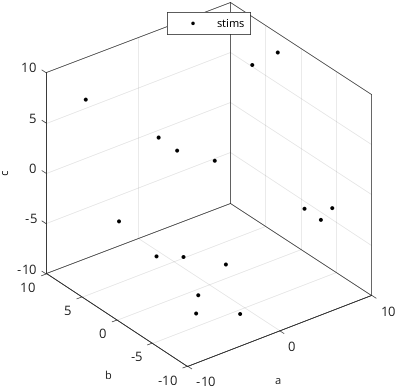
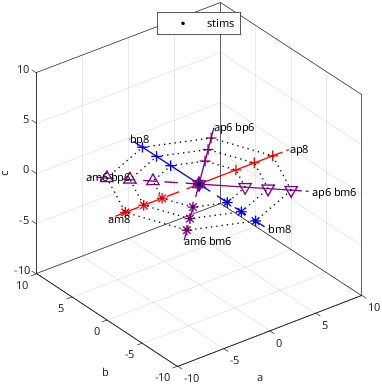
refresh the rs_toygeom_sim capture

diff --git a/docs/mfiles/demos/rs_toygeom_sim.md b/docs/mfiles/demos/rs_toygeom_sim.md
@@ -2,14 +2,12 @@
 Geometric modeling with toy simulated datasets; used by rs_toygeom_scenario*
 
 This illustrates fitting of geometric models via creation of simulated coordinate set structures.
-The defaults below are deliberately small, so that this script runs standalone in a
-reasonable time: two transforms, two paradigms, and model fitting without statistics.
-Any of the parameters may be set in the workspace before running, in which case the
-default is not applied; rs_toygeom_scenario*.m does exactly that, supplying richer
-parameter sets, and then calls this script.
+It is intended that several of the parameters, especially paradigm_names, transform_names, are edited,
+or that rs_toygeom_scenario*.m is run first; running as is will be very time-consuming.
 
-Because parameters are taken from the workspace when they are already defined, run this
-from a clear workspace unless you intend to supply parameters yourself.
+Any of the parameters may be set in the workspace before running, in which case the default
+is not applied; that is what rs_toygeom_scenario*.m does. So run this from a clear workspace
+unless you intend to supply parameters yourself.
 
 Constructs several transformations, designated by the strings in transform_names:
     null: the identity
@@ -46,14 +44,14 @@ See also:  [rs_import_coordsets](rs_import_coordsets.md), [rs_disp_coordsets](rs
 these are the main simulation parameters that may be edited, or have values set before running
 
 ```matlab
-if ~exist('transform_names') transform_names={'procrustes','affine'}; end %a small default set; available names are in transform_names_avail below
+if ~exist('transform_names') transform_names={'null','procrustes','affine','projective','pwaffine'}; end %some may be deleted
 if ~exist('affine_mag') affine_mag=0.5; end %magnitude of distortion in affine transforms
 if ~exist('projective_mag') projective_mag=0.1; end %controls amount of distortion in projective transform
 if ~exist('pwaffine_mag') pwaffine_mag=0.25; end %controls difference in linear transforms of piecewise affine
 ```
 
 ```matlab
-if ~exist('paradigm_names') paradigm_names={'Axes','Random'}; end %a small default set; others are Rings_C12, Rings_C13, Rings_C23, RandomAndAxisEnds
+if ~exist('paradigm_names') paradigm_names={'Axes','Rings_C12','Rings_C13','Rings_C23','Random','RandomAndAxisEnds'}; end %some may be deleted
 if ~exist('axis_samples') axis_samples=[2 4 6 8]; end %sample points in each direction along each axis
 if ~exist('ring_radii') ring_radii=[4 6 8]; end %radii for the rings
 if ~exist('ring_angles') ring_angles=8; end %number of sample points in a ring
@@ -206,7 +204,7 @@ disp(sprintf(' %2.0f transforms set up, on %3.0f coordinates.',ntransforms,ncoor
 Output:
 
 ```text
-  2 transforms set up, on   3 coordinates.
+  5 transforms set up, on   3 coordinates.
 ```
 
 define the number of subjects and levels of noise for each
@@ -357,7 +355,11 @@ Output:
 
 ```text
 coordinate sets created for paradigm Axes
+coordinate sets created for paradigm Rings_C12
+coordinate sets created for paradigm Rings_C13
+coordinate sets created for paradigm Rings_C23
 coordinate sets created for paradigm Random
+coordinate sets created for paradigm RandomAndAxisEnds
 ```
 
 create the type names, e.g., conceptual coordinate [-3 0 4] -> 'am3 cp4'
@@ -420,7 +422,11 @@ Output:
 
 ```text
 ray structure created for paradigm Axes
+ray structure created for paradigm Rings_C12
+ray structure created for paradigm Rings_C13
+ray structure created for paradigm Rings_C23
 ray structure skipped for paradigm Random
+ray structure skipped for paradigm RandomAndAxisEnds
 ```
 
 set up a page for each paradigm, with space for multiple subplots,
@@ -476,6 +482,14 @@ end
 ![rs_toygeom_sim_chunk35_fig1](../../images/demos/rs_toygeom_sim_chunk35_fig1.png)
 
 ![rs_toygeom_sim_chunk35_fig2](../../images/demos/rs_toygeom_sim_chunk35_fig2.png)
+
+![rs_toygeom_sim_chunk35_fig3](../../images/demos/rs_toygeom_sim_chunk35_fig3.png)
+
+![rs_toygeom_sim_chunk35_fig4](../../images/demos/rs_toygeom_sim_chunk35_fig4.png)
+
+![rs_toygeom_sim_chunk35_fig5](../../images/demos/rs_toygeom_sim_chunk35_fig5.png)
+
+![rs_toygeom_sim_chunk35_fig6](../../images/demos/rs_toygeom_sim_chunk35_fig6.png)
 
 apply each subject's transform to the stimuli in each stimulus set, and display
 
@@ -572,10 +586,36 @@ end
 Output:
 
 ```text
+dataspace created for paradigm                 Axes and transform null
 dataspace created for paradigm                 Axes and transform procrustes
 dataspace created for paradigm                 Axes and transform affine
+dataspace created for paradigm                 Axes and transform projective
+dataspace created for paradigm                 Axes and transform pwaffine
+dataspace created for paradigm            Rings_C12 and transform null
+dataspace created for paradigm            Rings_C12 and transform procrustes
+dataspace created for paradigm            Rings_C12 and transform affine
+dataspace created for paradigm            Rings_C12 and transform projective
+dataspace created for paradigm            Rings_C12 and transform pwaffine
+dataspace created for paradigm            Rings_C13 and transform null
+dataspace created for paradigm            Rings_C13 and transform procrustes
+dataspace created for paradigm            Rings_C13 and transform affine
+dataspace created for paradigm            Rings_C13 and transform projective
+dataspace created for paradigm            Rings_C13 and transform pwaffine
+dataspace created for paradigm            Rings_C23 and transform null
+dataspace created for paradigm            Rings_C23 and transform procrustes
+dataspace created for paradigm            Rings_C23 and transform affine
+dataspace created for paradigm            Rings_C23 and transform projective
+dataspace created for paradigm            Rings_C23 and transform pwaffine
+dataspace created for paradigm               Random and transform null
 dataspace created for paradigm               Random and transform procrustes
 dataspace created for paradigm               Random and transform affine
+dataspace created for paradigm               Random and transform projective
+dataspace created for paradigm               Random and transform pwaffine
+dataspace created for paradigm    RandomAndAxisEnds and transform null
+dataspace created for paradigm    RandomAndAxisEnds and transform procrustes
+dataspace created for paradigm    RandomAndAxisEnds and transform affine
+dataspace created for paradigm    RandomAndAxisEnds and transform projective
+dataspace created for paradigm    RandomAndAxisEnds and transform pwaffine
 ```
 
 optinally align and knit the stimuli across paradigms
@@ -649,7 +689,7 @@ paradigms_all=fieldnames(sims); %includes original paradigms and knitted
 if ~exist('opts_geof') opts_geof=struct; end
 opts_geof=filldefault(opts_geof,'model_list',model_list);
 opts_geof=filldefault(opts_geof,'dimpairs_method','all');
-opts_geof=filldefault(opts_geof,'if_stats',0); %statistics are slow; the scenarios that need them set this to 1
+opts_geof=filldefault(opts_geof,'if_stats',1);
 opts_geof=filldefault(opts_geof,'nshuffs',20);
 opts_geof=filldefault(opts_geof,'if_nestbymodel',-1);
 opts_geof=filldefault(opts_geof,'if_nestbydim',-1);
@@ -687,11 +727,40 @@ Output:
 
 ```text
  
+modeling transform                 null from stimulus space to subject space with paradigm                 Axes
+modeling transform                 null from stimulus space to subject space with paradigm            Rings_C12
+modeling transform                 null from stimulus space to subject space with paradigm            Rings_C13
+modeling transform                 null from stimulus space to subject space with paradigm            Rings_C23
+modeling transform                 null from stimulus space to subject space with paradigm               Random
+modeling transform                 null from stimulus space to subject space with paradigm    RandomAndAxisEnds
+ 
 modeling transform           procrustes from stimulus space to subject space with paradigm                 Axes
+modeling transform           procrustes from stimulus space to subject space with paradigm            Rings_C12
+modeling transform           procrustes from stimulus space to subject space with paradigm            Rings_C13
+modeling transform           procrustes from stimulus space to subject space with paradigm            Rings_C23
 modeling transform           procrustes from stimulus space to subject space with paradigm               Random
+modeling transform           procrustes from stimulus space to subject space with paradigm    RandomAndAxisEnds
  
 modeling transform               affine from stimulus space to subject space with paradigm                 Axes
+modeling transform               affine from stimulus space to subject space with paradigm            Rings_C12
+modeling transform               affine from stimulus space to subject space with paradigm            Rings_C13
+modeling transform               affine from stimulus space to subject space with paradigm            Rings_C23
 modeling transform               affine from stimulus space to subject space with paradigm               Random
+modeling transform               affine from stimulus space to subject space with paradigm    RandomAndAxisEnds
+ 
+modeling transform           projective from stimulus space to subject space with paradigm                 Axes
+modeling transform           projective from stimulus space to subject space with paradigm            Rings_C12
+modeling transform           projective from stimulus space to subject space with paradigm            Rings_C13
+modeling transform           projective from stimulus space to subject space with paradigm            Rings_C23
+modeling transform           projective from stimulus space to subject space with paradigm               Random
+modeling transform           projective from stimulus space to subject space with paradigm    RandomAndAxisEnds
+ 
+modeling transform             pwaffine from stimulus space to subject space with paradigm                 Axes
+modeling transform             pwaffine from stimulus space to subject space with paradigm            Rings_C12
+modeling transform             pwaffine from stimulus space to subject space with paradigm            Rings_C13
+modeling transform             pwaffine from stimulus space to subject space with paradigm            Rings_C23
+modeling transform             pwaffine from stimulus space to subject space with paradigm               Random
+modeling transform             pwaffine from stimulus space to subject space with paradigm    RandomAndAxisEnds
 ```
 
 ```matlab
